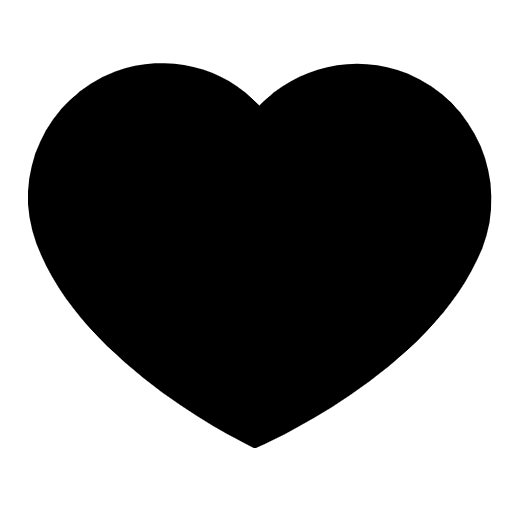
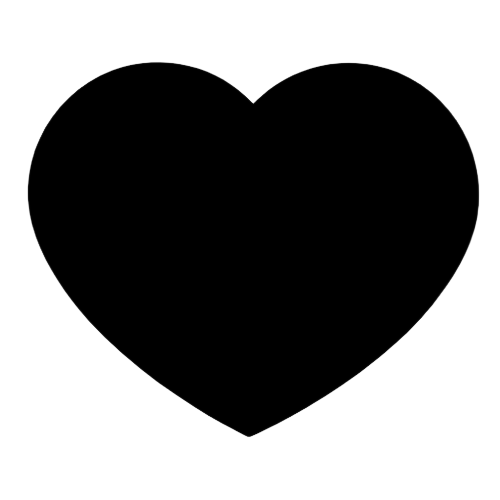
Like button implemented

diff --git a/src/components/Card.js b/src/components/Card.js
@@ -1,4 +1,5 @@
 import React from "react";
+import { useState } from "react";
 
 
 
@@ -20,19 +21,28 @@ export default function Card (props) {
         alert(`You've clicked on activity number : ${cardId}`);
     }
 
+    const [fav, setFav] = useState({
+        isFavorite: false
+    })
 
+    function toggleFavorite() {
+        setFav(prevState => {
+            return {
+                isFavorite: !prevState.isFavorite
+            }
+        })
+    }
+
+    let heartIcon = fav.isFavorite ? "liked.png" : "notLiked.png"
 
     return (
         <div className="card" >
 
             { badge && <div className="card--badge" > {badge} </div> }   {/* see if 'sold out' badge is rendered on the screen or not */}
 
-            {/* like button */}
-            <div className="card--like" >
-                <span class="material-symbols-outlined" onClick={handleClick} >
-                    favorite
-                </span> 
-            </div>
+
+            <img src = { require( "../images/" + heartIcon ) } className="card--like" alt="" onClick={toggleFavorite} />
+        
 
             <img src = { require( "../images/" + props.item.coverImg ) } className="card--image" alt="" />
 

diff --git a/src/components/FavouriteCards.js b/src/components/FavouriteCards.js
@@ -1,12 +1,27 @@
 import React from "react";
+import ArrayOfFavCards from "./ArrayOfFavCards";
 
 
 export default function FavouriteCards() {
+
+
+    // 'listOfCard' will render all the favourite cards
+    const listOfFavCards = ArrayOfFavCards.map ((item) => {
+    // return (
+    //     <Card 
+    //       key = {item.id}  // required to avoid the error regarding unique value
+    //       item = {item}    // This will render the entire card
+    //     />
+    //   );
+    });
+
+
+
     return (
         <>
-            <h1>
-                Hello world
-            </h1>
+            <section className="cards-list" >
+                {listOfFavCards}
+            </section>
         </>
     )
 }

diff --git a/src/components/Home.js b/src/components/Home.js
@@ -21,6 +21,7 @@ function Home() {
     <>
       <Navbar />
       <Hero />
+      {/* React component names must always start with a capital letter, while HTML tags must be lowercase. */}
       <section className="cards-list" >
         {listOfCards}
       </section>

diff --git a/src/styles/index.css b/src/styles/index.css
@@ -117,18 +117,11 @@ section {
   top: 6px;
   left: 140px;
   padding: 3px 5px;
+  height: 30px;
+  cursor:pointer;
 }
 
 
 h1 {
   font-size: 50px;
 }
-
-
-
-.material-symbols-outlined {
-  cursor:pointer;
-}
-
-
-

diff --git a/src/components/Favourites.js b/src/components/Favourites.js
@@ -1,4 +1,4 @@
-import React, { Component } from "react";
+import React from "react";
 import FavouriteCards from "./FavouriteCards";
 import { Link } from "react-router-dom";
 

diff --git a/src/components/ArrayOfFavCards.js b/src/components/ArrayOfFavCards.js
@@ -1,0 +1,7 @@
+import React from "react";
+
+let ArrayOfFavCards = [
+
+]
+
+export default ArrayOfFavCards;
